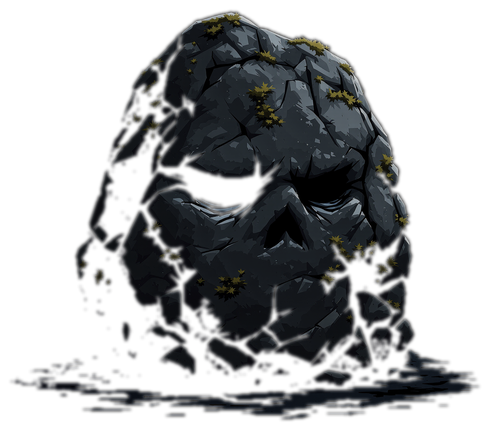
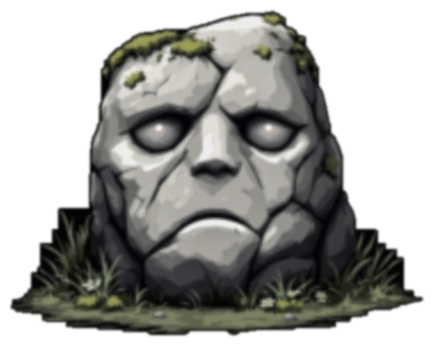
Troll rockface batch 4: lighter medium-grey, low-detail, muted moss
Owner: batch 3 was too dark and too high-definition vs the rest of the art.
Regenerate to match the in-game rocks (rockMossy/rockBasalt): medium neutral
grey (not near-black), flat painterly big-facet shading (downscale+posterize
to kill photoreal grain), muted olive moss (global desaturate, no channel
cast), very subtle face. Live pick = #3 (soft closed-eye sleeping face);
options #1-#6 kept in rock_options for selection.

Claude-Session: https://claude.ai/code/session_01CgGUkw5aUKtUAGfWeZXo2s

diff --git a/dist/artifact.html b/dist/artifact.html
@@ -1484,8 +1484,8 @@
 <div id="ui"></div>
 <script>
 'use strict';
-window.__ASSET_VER = "zmli4k";
-globalThis.__BUILD__ = "local 07-24 19:17";
+window.__ASSET_VER = "1psuzhk";
+globalThis.__BUILD__ = "local 07-24 19:28";
 
 // ===================== src/config.js =====================
 const __m_config = (function () {

diff --git a/dist/index.html b/dist/index.html
@@ -1490,8 +1490,8 @@
 <div id="ui"></div>
 <script>
 'use strict';
-window.__ASSET_VER = "zmli4k";
-globalThis.__BUILD__ = "local 07-24 19:17";
+window.__ASSET_VER = "1psuzhk";
+globalThis.__BUILD__ = "local 07-24 19:28";
 
 // ===================== src/config.js =====================
 const __m_config = (function () {

diff --git a/scripts/gen_troll_rock2.py b/scripts/gen_troll_rock2.py
@@ -1,0 +1,144 @@
+#!/usr/bin/env python3
+# Troll rockface BATCH 4 — owner: batch 3 was "too dark and too high definition compared
+# to the rest of our assets." Match the in-game rocks (rockMossy / rockBasalt / rockSlate):
+# MEDIUM grey (NOT near-black), SOFT painterly low-detail with big chunky facets (NOT
+# photoreal fine texture, NOT sharp deep cracks), gentle moss, very subtle face.
+# FLUX 1.1 PRO ULTRA raw:false + heavy flatten post (downscale to kill grain, posterize,
+# lift toward mid-grey). Saves RAW crops to scratchpad so post can be re-tuned offline.
+import os, sys, json, time, subprocess, tempfile
+from pathlib import Path
+from PIL import Image, ImageDraw, ImageFont, ImageFilter, ImageEnhance, ImageOps
+
+ROOT = Path(__file__).resolve().parents[1]
+OUTDIR = ROOT / "assets" / "rock_options"
+RAWDIR = ROOT / "scratchpad" / "troll_raw"
+OUTDIR.mkdir(parents=True, exist_ok=True); RAWDIR.mkdir(parents=True, exist_ok=True)
+CA = "/root/.ccr/ca-bundle.crt"
+TOKEN = os.environ.get("REPLICATE_API_TOKEN", "").strip()
+LOG = os.environ.get("ROCKLOG", "/tmp/troll_rock2.log")
+MODEL = "black-forest-labs/flux-1.1-pro-ultra"
+
+# Flat, medium-grey, low-detail hand-painted GAME rock (match rockBasalt/rockMossy) on black.
+STYLE = ("hand-painted 2D game-art boulder sprite, flat cel-shaded soft airbrushed shading, "
+         "VERY LOW detail, big smooth chunky rounded facets, NO fine texture, NO grain, NO "
+         "photoreal detail, NO sharp deep cracks, matte finish, a MEDIUM neutral GREY stone "
+         "(mid-grey weathered granite, NOT black, NOT dark, NOT charcoal), soft gentle "
+         "shading, patches of soft dark-green moss on top like a mossy underground boulder, "
+         "simple mobile-game rock look, solid pure black background, centered, single rock, "
+         "no text, no watermark, no border, no people")
+
+# Barely-there face — a plain mossy grey boulder that only might hint at a sleepy look.
+SUBJECT = ("an ordinary plain medium-grey mossy boulder, essentially just a normal soft "
+           "underground rock; at most the faintest soft shadow between its facets could be "
+           "imagined as a calm sleeping face, but NO eyes, NO glowing eyes, NO carved nose "
+           "or mouth, nothing golem-like or monstrous — a player should simply see a soft "
+           "grey mossy rock. The face is almost invisible")
+
+VARIANTS = [
+    ("a plain rounded grey boulder, big soft facets, no discernible face", 7100),
+    ("a chunky grey boulder, gentle facet shadows, only the faintest sleepy hint", 7280),
+    ("a soft rounded mossy grey boulder, extremely subtle calm impression", 7460),
+    ("a broad grey boulder, moss over the crown, nearly featureless face", 7640),
+    ("a smooth grey river-worn boulder, the calmest faint sleeping suggestion", 7820),
+    ("a squat grey boulder, soft chunky planes, moss skirt, face barely there", 8000),
+]
+
+def log(m):
+    with open(LOG, "a") as f: f.write(m + "\n")
+    print(m, flush=True)
+
+def curl_json(args):
+    r = subprocess.run(["curl","-sS","--max-time","120","--cacert",CA]+args, capture_output=True, text=True)
+    try: return json.loads(r.stdout)
+    except Exception: return {"_raw": r.stdout[:200]}
+
+def create(prompt, seed):
+    body = json.dumps({"input":{"prompt":prompt,"aspect_ratio":"1:1","raw":False,
+                                "output_format":"png","safety_tolerance":6,"seed":seed}})
+    return curl_json(["-H",f"Authorization: Bearer {TOKEN}","-H","Content-Type: application/json",
+                      "-d",body, f"https://api.replicate.com/v1/models/{MODEL}/predictions"])
+
+def poll(geturl):
+    for _ in range(150):
+        d = curl_json(["-H",f"Authorization: Bearer {TOKEN}",geturl])
+        st = d.get("status")
+        if st == "succeeded": return d
+        if st in ("failed","canceled"): return d
+        time.sleep(2)
+    return {"status":"timeout"}
+
+# ---- flatten: push a photoreal FLUX render toward the game's flat low-detail look ----
+def flatten(im, down=210, bright=1.12, contrast=0.92, color=0.50, poster=6):
+    small = im.resize((down, down), Image.BILINEAR)          # kill high-freq grain
+    im = small.resize((480, 480), Image.BILINEAR)
+    im = im.filter(ImageFilter.GaussianBlur(0.8))            # soften facet edges
+    im = ImageEnhance.Brightness(im).enhance(bright)         # lift toward mid-grey
+    im = ImageEnhance.Contrast(im).enhance(contrast)         # flatten tonal range
+    im = ImageEnhance.Color(im).enhance(color)               # slight desaturate
+    im = ImageOps.posterize(im, poster)                      # cel-shaded stepped tones
+    return im
+
+# ---- solid-silhouette cutout (binary threshold + morphological close), reused from recut ----
+def _dil(m,it):
+    for _ in range(it): m=m.filter(ImageFilter.MaxFilter(5))
+    return m
+def _ero(m,it):
+    for _ in range(it): m=m.filter(ImageFilter.MinFilter(5))
+    return m
+def cutout(im, dest, T=13, pad=8, feather=1.2, close=9):
+    im = im.convert("RGB"); w,h = im.size
+    lp = im.convert("L").load()
+    fg = Image.new("L",(w,h),0); fp=fg.load()
+    for y in range(h):
+        for x in range(w):
+            if lp[x,y] > T: fp[x,y]=255
+    fg = _ero(_dil(fg,close),close)
+    work = fg.copy(); wl=work.load()
+    seeds=[(1,1),(w-2,1),(1,h-2),(w-2,h-2),(w//2,1),(w//2,h-2),(1,h//2),(w-2,h//2)]
+    for s in seeds:
+        if wl[s[0],s[1]]==0: ImageDraw.floodfill(work,s,128,thresh=0)
+    alpha=Image.new("L",(w,h),255); ap=alpha.load(); wl=work.load()
+    for y in range(h):
+        for x in range(w):
+            if wl[x,y]==128: ap[x,y]=0
+    alpha=alpha.filter(ImageFilter.GaussianBlur(feather))
+    out=im.convert("RGBA"); out.putalpha(alpha)
+    bb=out.getbbox()
+    if bb:
+        bb=(max(0,bb[0]-pad),max(0,bb[1]-pad),min(w,bb[2]+pad),min(h,bb[3]+pad)); out=out.crop(bb)
+    out.save(dest,"PNG")
+
+def save_variants(url, n):
+    tmp = tempfile.mktemp(suffix=".png")
+    subprocess.run(["curl","-sS","--max-time","150","--cacert",CA,"-o",tmp,url], check=True)
+    im = Image.open(tmp).convert("RGB")
+    s = min(im.width, im.height)
+    im = im.crop(((im.width-s)//2,(im.height-s)//2,(im.width-s)//2+s,(im.height-s)//2+s)).resize((480,480), Image.LANCZOS)
+    im.save(RAWDIR / f"raw-{n}.jpg","JPEG",quality=92)        # keep raw for offline re-tune
+    flat = flatten(im)
+    flat.save(OUTDIR / f"troll-r{n}.jpg","JPEG",quality=90)
+    cutout(flat, str(OUTDIR / f"troll-r{n}.png"))
+    os.remove(tmp)
+
+def gen_one(n, variant, seed):
+    prompt = f"{SUBJECT}, {variant}, {STYLE}"
+    for attempt in range(4):
+        d = create(prompt, seed + attempt*911)
+        get = ((d.get("urls") or {}).get("get")) or ""
+        if not get: log(f"r{n}: create fail ({d.get('detail') or d.get('_raw')})"); time.sleep(5); continue
+        r = poll(get)
+        out = r.get("output"); url = out[0] if isinstance(out,list) and out else (out if isinstance(out,str) else "")
+        if r.get("status")=="succeeded" and url:
+            try: save_variants(url, n); log(f"OK r{n}"); return
+            except Exception as e: log(f"r{n}: dl error {e}")
+        else: log(f"r{n}: {r.get('status')} ({r.get('error') or ''})"); time.sleep(4)
+    log(f"FAIL r{n}")
+
+def main():
+    if not TOKEN: log("NO TOKEN"); sys.exit(1)
+    for n,(variant,seed) in enumerate(VARIANTS, start=1):
+        gen_one(n, variant, seed); time.sleep(2)
+    log("BATCH 4 DONE")
+
+if __name__ == "__main__":
+    main()
